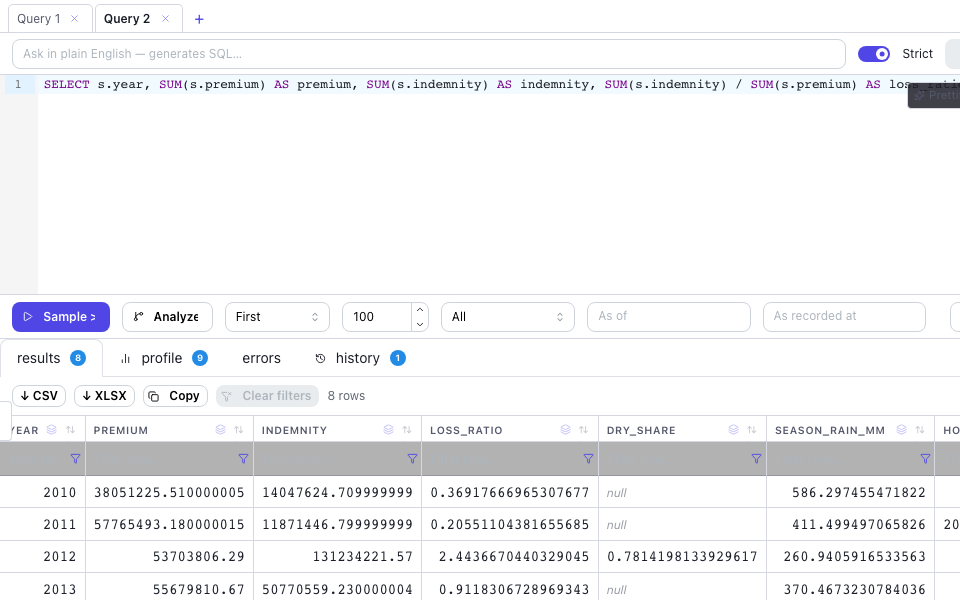
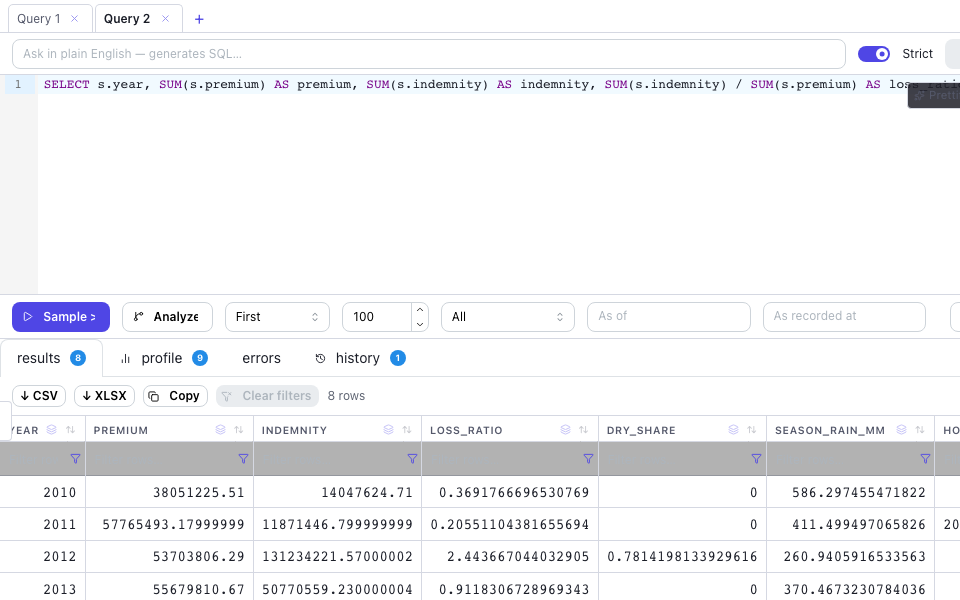
fix(demos): a season with indemnity and none for dry weather has a dry share of 0; the relationship check skips no demo (REQ-2039, REQ-388)
Agriculture's view summed drought and heat indemnity through a CASE with no ELSE, so a county's
season whose claims were all for other perils had a NULL dry share instead of 0 (the portfolio's
2010, 2011 and 2013-2016; the market's dry share likewise). The card is shot again from the
corrected answer. The registered-name check now runs for every named demo: perf's remote
source registers no table a relationship names.

diff --git a/tests/unit/test_named_demo_relationship_types.py b/tests/unit/test_named_demo_relationship_types.py
@@ -36,21 +36,19 @@ def test_each_relationship_type_is_declared_once_per_source_table(path):
     assert [pair for pair, n in declared.items() if n > 1] == [], path.parent.name
 
 
-# The sources whose tables are registered after the configuration's own, by their registration
-# (graphql_remote_router, the gRPC remote's): a relationship may name one of theirs.
-_REGISTERED_LATER = {"graphql_remote", "grpc_remote"}
-
-
 @pytest.mark.parametrize("path", CONFIGS, ids=[p.parent.name for p in CONFIGS])
 def test_each_relationship_names_a_table_by_the_name_it_is_registered_under(path):
     """A relationship reaches a table by its registered name, its alias else its table name; a
     view is registered as ``view_<id>`` (config_loader.views_as_tables). A name nothing registers
-    fails the load by name (REQ-388, REQ-1919): agriculture's answer view was named by its id."""
+    fails the load by name (REQ-388, REQ-1919): agriculture's answer view was named by its id.
+
+    Every named demo's relationships join tables its own configuration declares, the one with a
+    remote source (perf, a graphql_remote) included: none relates a table a remote source
+    registers after the configuration. A demo that does must have this test extended to name that
+    source's tables, never skipped."""
     from provisa.core.config_loader import views_as_tables
 
     config = views_as_tables(yaml.safe_load(path.read_text()))
-    if any(s.get("type") in _REGISTERED_LATER for s in config.get("sources", [])):
-        pytest.skip("a remote source registers tables of its own after the configuration's")
     names = {t.get("alias") or t["table"] for t in config.get("tables", [])}
     unknown = [
         (rel["id"], rel[end])

diff --git a/tests/integration/test_agriculture_demo.py b/tests/integration/test_agriculture_demo.py
@@ -221,6 +221,27 @@ def test_2012_is_the_dry_year_the_losses_follow(server):
     assert max(by_year, key=lambda y: by_year[y]["market_dry_share"]) == 2012
 
 
+def test_a_season_with_indemnity_and_none_for_dry_weather_has_a_dry_share_of_zero(server):
+    """A dry share is the share of the indemnity paid for drought and heat: a county's season
+    whose claims were all for other perils paid none of it for dry weather (0), and only a season
+    that paid no indemnity at all has no share. 2010, 2011 and 2013 were wet or hail years."""
+    rows = query(server, f"SELECT county_fips, year, indemnity, dry_share FROM {_VIEW}")
+    missing = sorted(
+        (r["county_fips"], r["year"]) for r in rows if r["indemnity"] and r["dry_share"] is None
+    )
+    assert missing == [], f"seasons with indemnity and no dry share: {missing[:10]}"
+    by_year = {
+        r["year"]: r
+        for r in query(
+            server,
+            "SELECT year, SUM(indemnity * dry_share) / SUM(indemnity) AS dry_share "
+            f"FROM {_VIEW} GROUP BY year",
+        )
+    }
+    assert [by_year[y]["dry_share"] for y in (2010, 2011, 2013)] == [0, 0, 0]
+    assert by_year[2012]["dry_share"] > 0.5
+
+
 def test_the_answer_is_the_same_live_and_built(server):
     sql = f"SELECT county_fips, year, premium, indemnity FROM {_VIEW} ORDER BY county_fips, year"
     live = query(server, sql)
